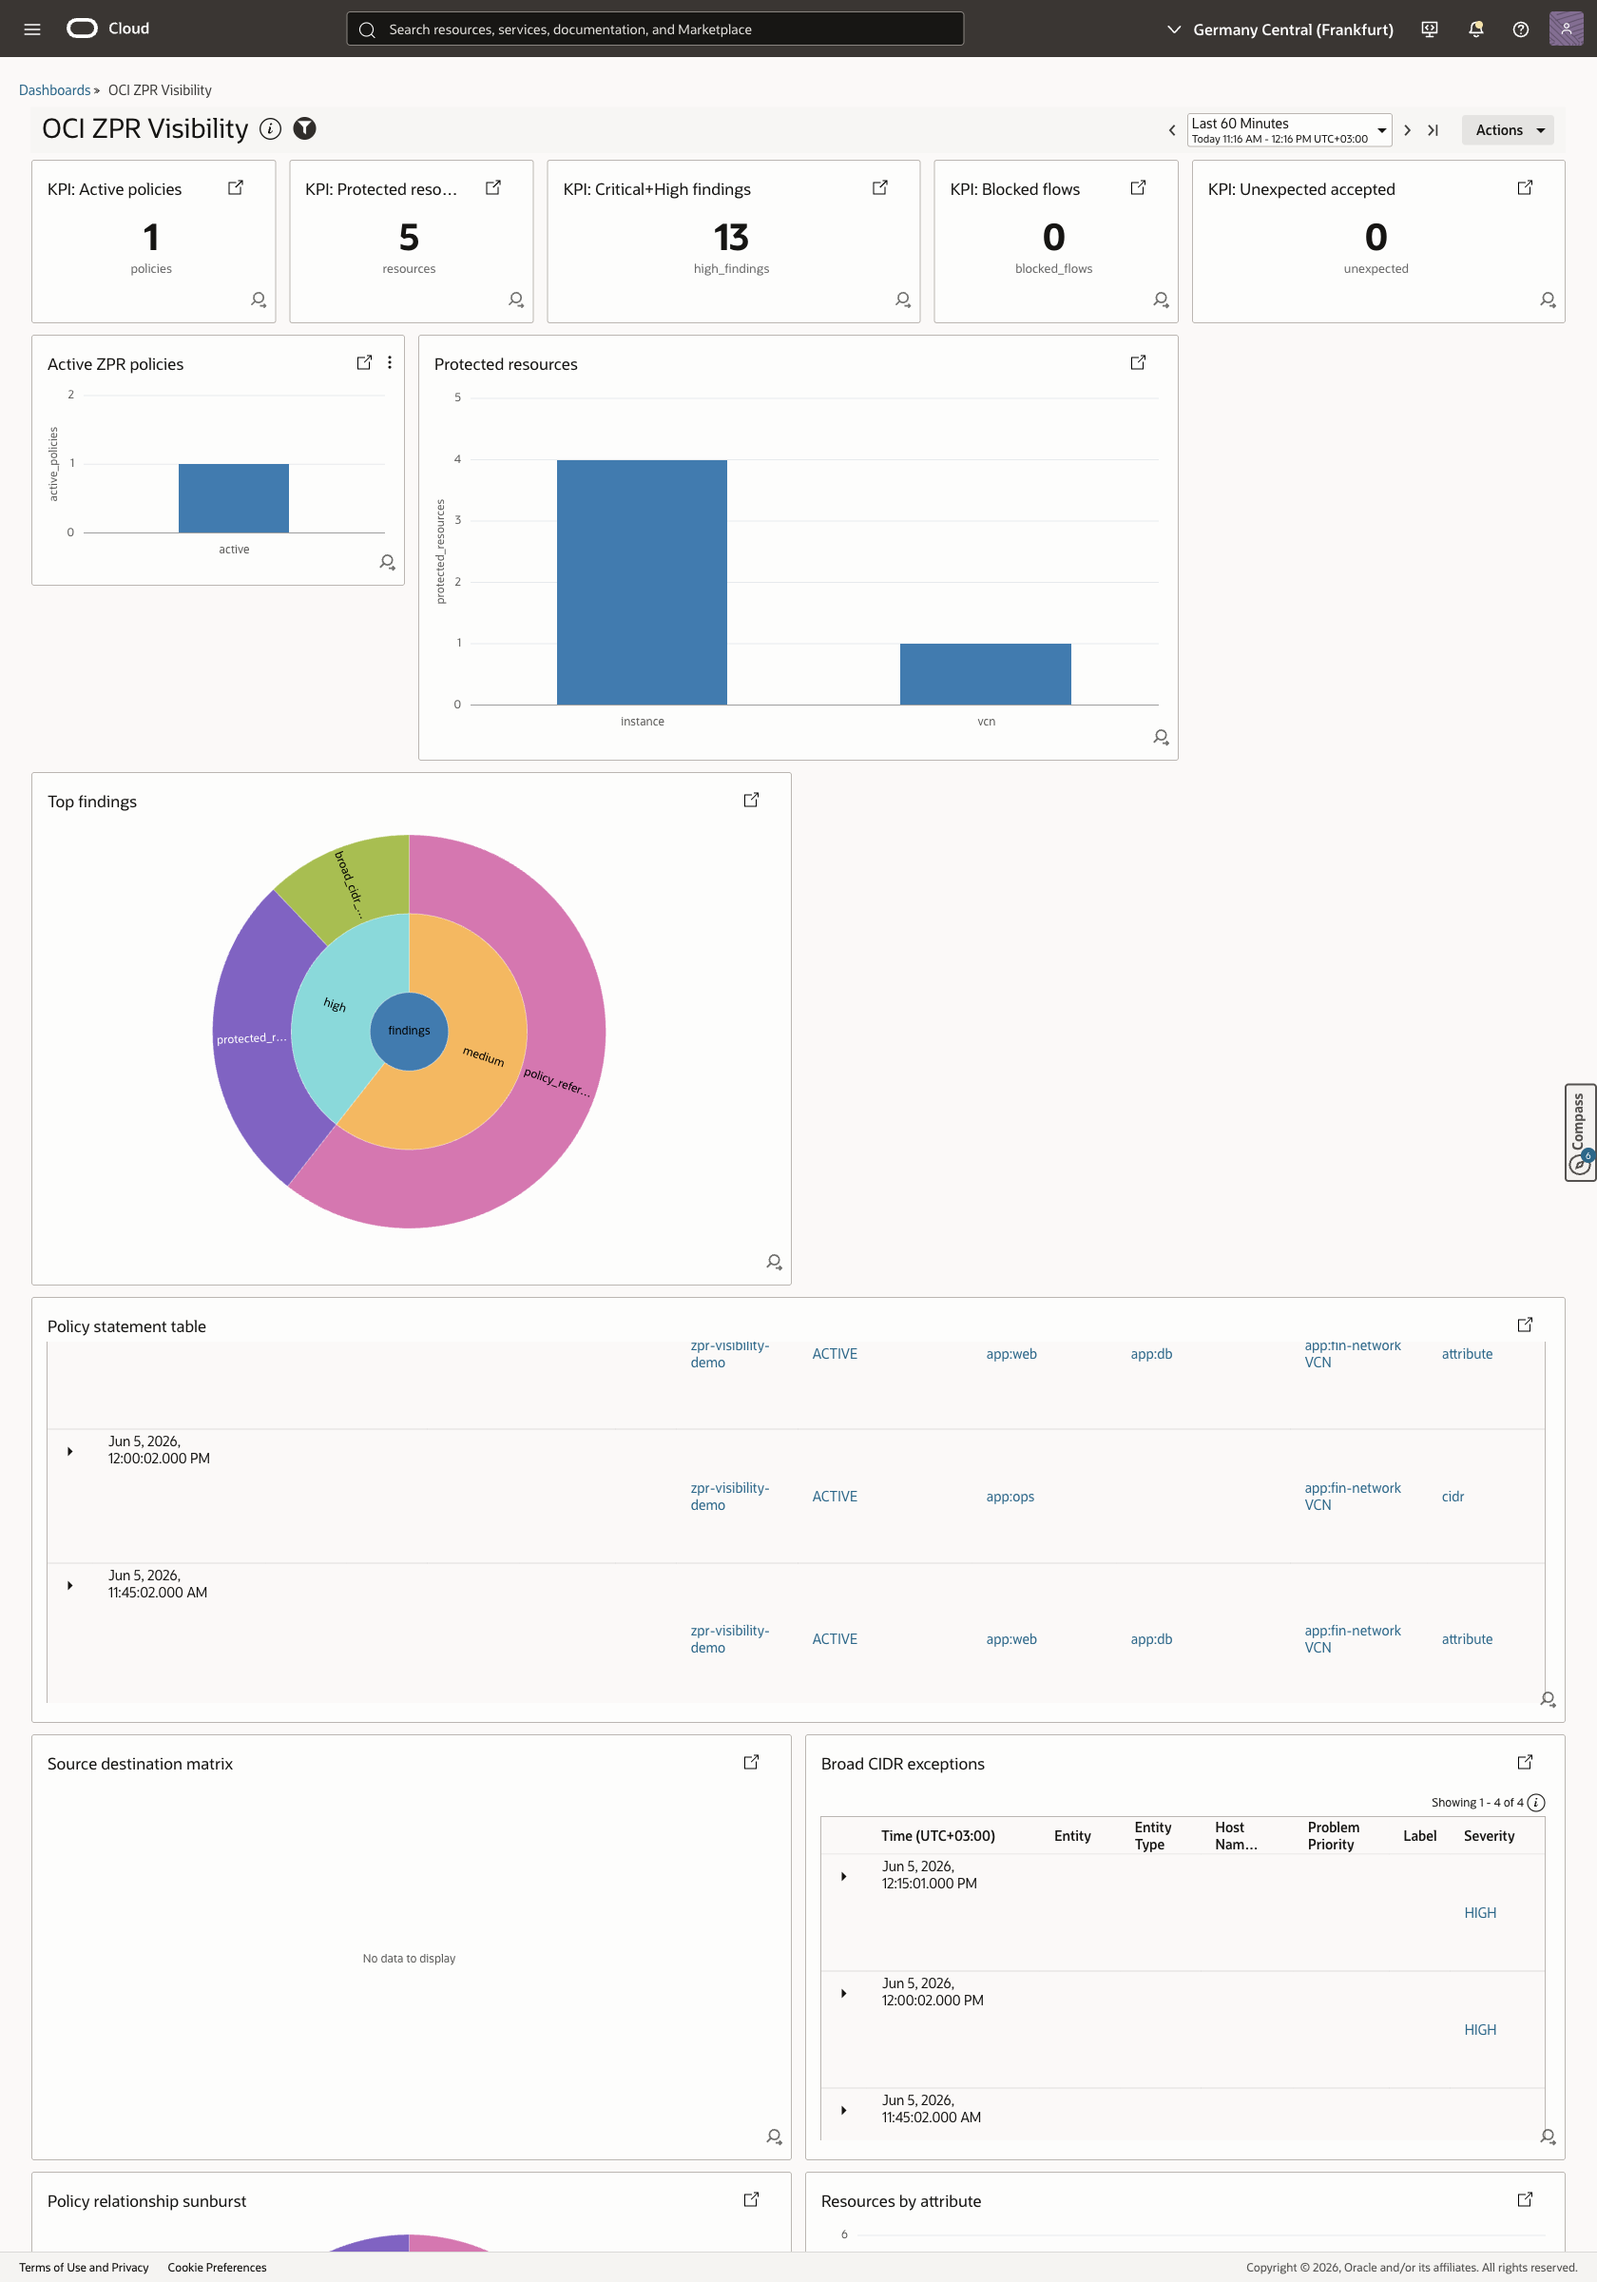
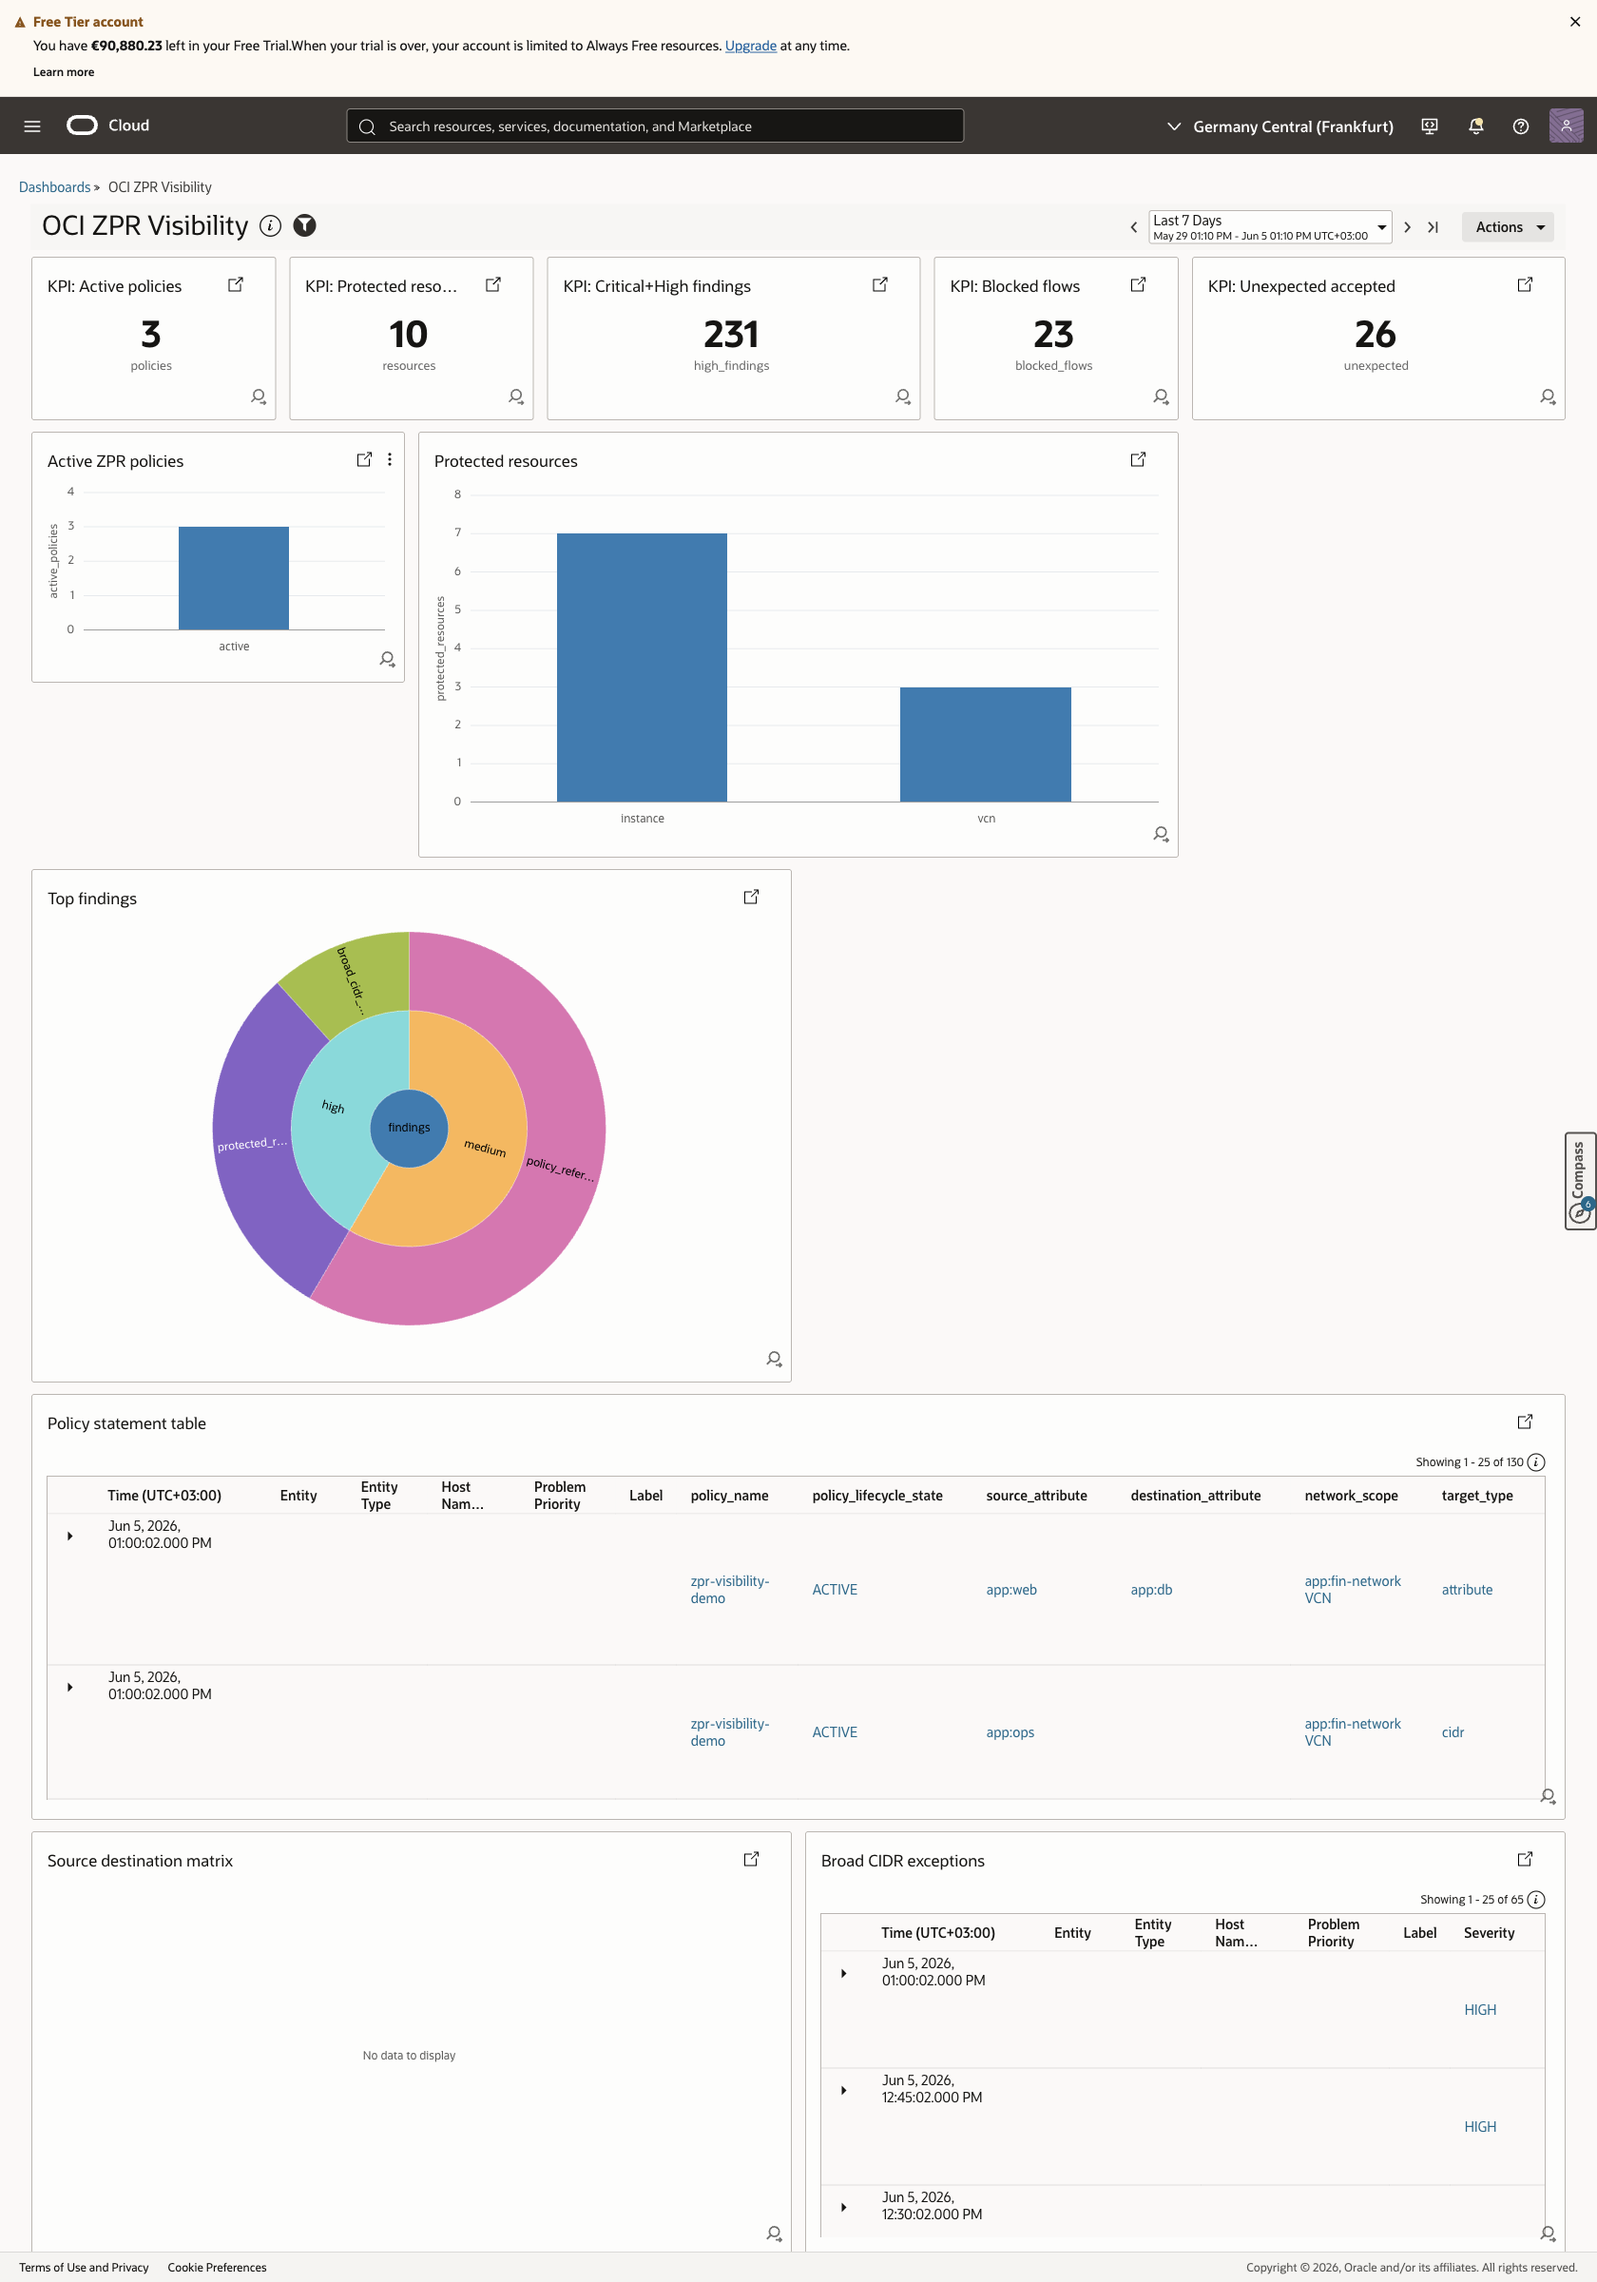
docs(evidence): dashboard hero shot with flow KPIs populated (7-day window)
Recapture over a Last 7 Days window so all five KPIs populate, including
Blocked flows (23) and Unexpected accepted (26) which need a >=6h window for
VCN Flow Log latency. Zero console error banners; all 21 widgets render.

diff --git a/docs/evidence/zpr-console-verification.redacted.md b/docs/evidence/zpr-console-verification.redacted.md
@@ -24,10 +24,12 @@ OCI LA console`):
 Verified live: **0 failing widget queries, 0 console error banners** (captured
 via CDP Network on a fresh browser tab).
 
-Live KPI values at capture (Last 60 Minutes window): Active policies **1**,
-Protected resources **5**, Critical+High findings **13**, Blocked flows **0**,
-Unexpected accepted **0**. (Flow KPIs are 0 in a 60-min window because VCN Flow
-Logs lag ~10–15 min; a ≥6h window populates them.)
+Live KPI values at capture (**Last 7 Days** window): Active policies **3**,
+Protected resources **10**, Critical+High findings **231**, Blocked flows
+**23**, Unexpected accepted **26** — all five KPIs populated, including the two
+flow KPIs (VCN Flow Logs lag ~10–15 min, so a ≥6h window is needed for those;
+counts accumulate across the 15-min collector cron over the window). A 60-min
+window shows the policy/resource/finding widgets but 0 flows, which is expected.
 
 ## 2. Security attributes ARE present (`oracle-zpr` namespace)
 
